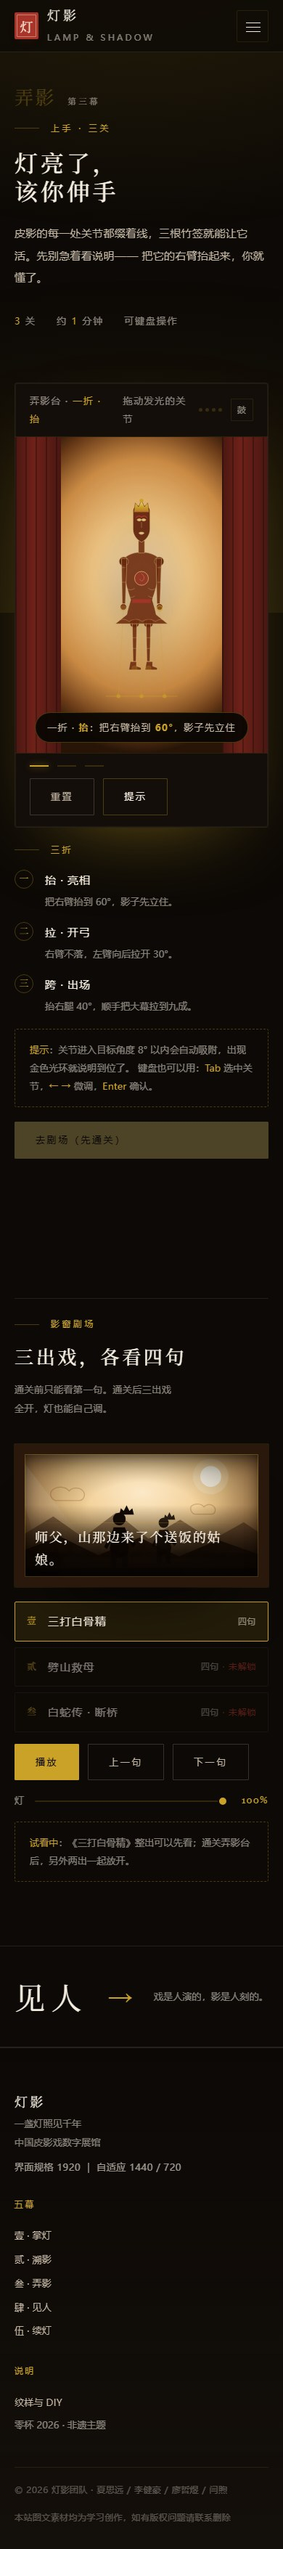
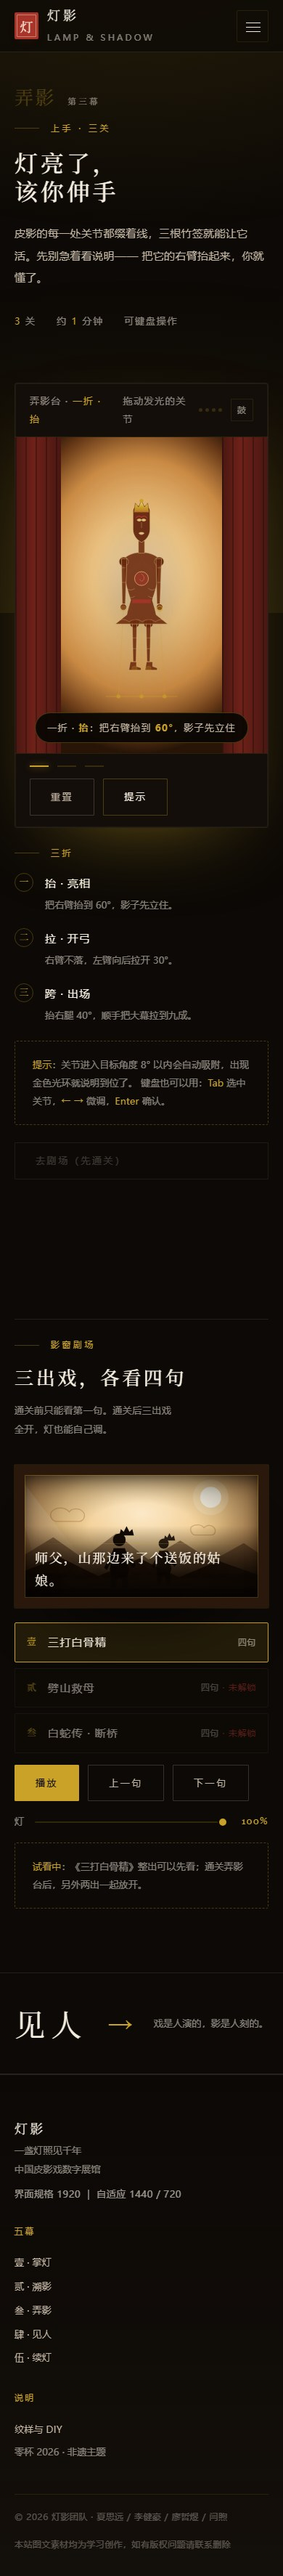
style: P1 试点——弄影页内部节奏 24/48
- 新增 --gap-el 24 / --gap-block 48 两个节奏令牌
- 弄影页试点：侧栏组间距 20→24、步骤行距 16→20、提示框内边距 16/20→20/24、榜单上边距 12→16
- 顺带修一处层级问题：禁用的主按钮原本是整页最重的色块（实心金 + 38% 透明），改成描边 + 弱文字，等解锁再亮
- 单页试点，未推广；30 组审计 0 报错 0 溢出

diff --git a/web/assets/css/pages.css b/web/assets/css/pages.css
@@ -191,10 +191,10 @@ body[data-lit="1"] .hero__scroll { display: none; }
 .crafts-block { padding-block: clamp(56px, 8vw, 112px); }
 
 /* ---------- 弄影 ---------- */
-.play-layout { display: grid; grid-template-columns: minmax(0, 1.35fr) minmax(0, .65fr); gap: clamp(20px, 3vw, 44px); align-items: start; }
+.play-layout { display: grid; grid-template-columns: minmax(0, 1.35fr) minmax(0, .65fr); gap: clamp(24px, 3vw, 48px); align-items: start; }
 @media (max-width: 1024px) { .play-layout { grid-template-columns: 1fr; } }
-.play-side { display: flex; flex-direction: column; gap: 20px; }
-.step-list { display: grid; gap: 16px; }
+.play-side { display: flex; flex-direction: column; gap: var(--gap-el); }
+.step-list { display: grid; gap: 20px; }
 .step-item { display: flex; gap: 16px; align-items: flex-start; }
 .step-item__no {
   flex: none;
@@ -211,7 +211,7 @@ body[data-lit="1"] .hero__scroll { display: none; }
 .locked-note {
   border: 1px dashed var(--gold-3);
   border-radius: 3px;
-  padding: 16px 20px;
+  padding: 20px 24px;
   font-size: var(--fs-small);
   color: var(--paper-faint);
   line-height: 1.9;
@@ -219,7 +219,7 @@ body[data-lit="1"] .hero__scroll { display: none; }
 .locked-note b { color: var(--lamp); font-weight: 500; }
 
 /* ---------- 榜单 ---------- */
-.board { padding-top: 16px; border-top: 1px solid var(--hair); }
+.board { padding-top: var(--gap-el); border-top: 1px solid var(--hair); }
 .board[hidden] { display: none; }
 .board__head {
   display: flex;
@@ -230,7 +230,7 @@ body[data-lit="1"] .hero__scroll { display: none; }
   color: var(--paper-faint);
 }
 .board__mode { color: var(--lamp); letter-spacing: .16em; }
-.board__list { margin-top: 12px; display: flex; flex-direction: column; }
+.board__list { margin-top: 16px; display: flex; flex-direction: column; }
 .board__row {
   display: grid;
   grid-template-columns: 20px minmax(0, 1fr) auto auto;

diff --git a/web/assets/css/components.css b/web/assets/css/components.css
@@ -23,6 +23,14 @@
 .btn--solid:hover { background: var(--lamp-soft); border-color: var(--lamp-soft); }
 .btn--ghost { border-color: rgba(244, 237, 224, .18); color: var(--paper-dim); }
 .btn[disabled] { opacity: .38; cursor: not-allowed; }
+/* 不可用的主按钮不该是全页最重的色块：退成描边，等解锁再亮 */
+.btn--solid[aria-disabled="true"] {
+  background: transparent;
+  border-color: var(--line-strong);
+  color: var(--paper-faint);
+  filter: none;
+  opacity: 1;
+}
 
 .chip {
   display: inline-flex;

diff --git a/web/assets/css/tokens.css b/web/assets/css/tokens.css
@@ -70,6 +70,10 @@
   --s9: 104px;
   --s10: 144px;
 
+  /* ---------- 节奏：区块内部用这两档 ---------- */
+  --gap-el: 24px;      /* 同组元素之间 */
+  --gap-block: 48px;   /* 组与组之间 */
+
   /* ---------- 圆角：近乎直角 ---------- */
   --r-sm: 1px;
   --r-md: 2px;
